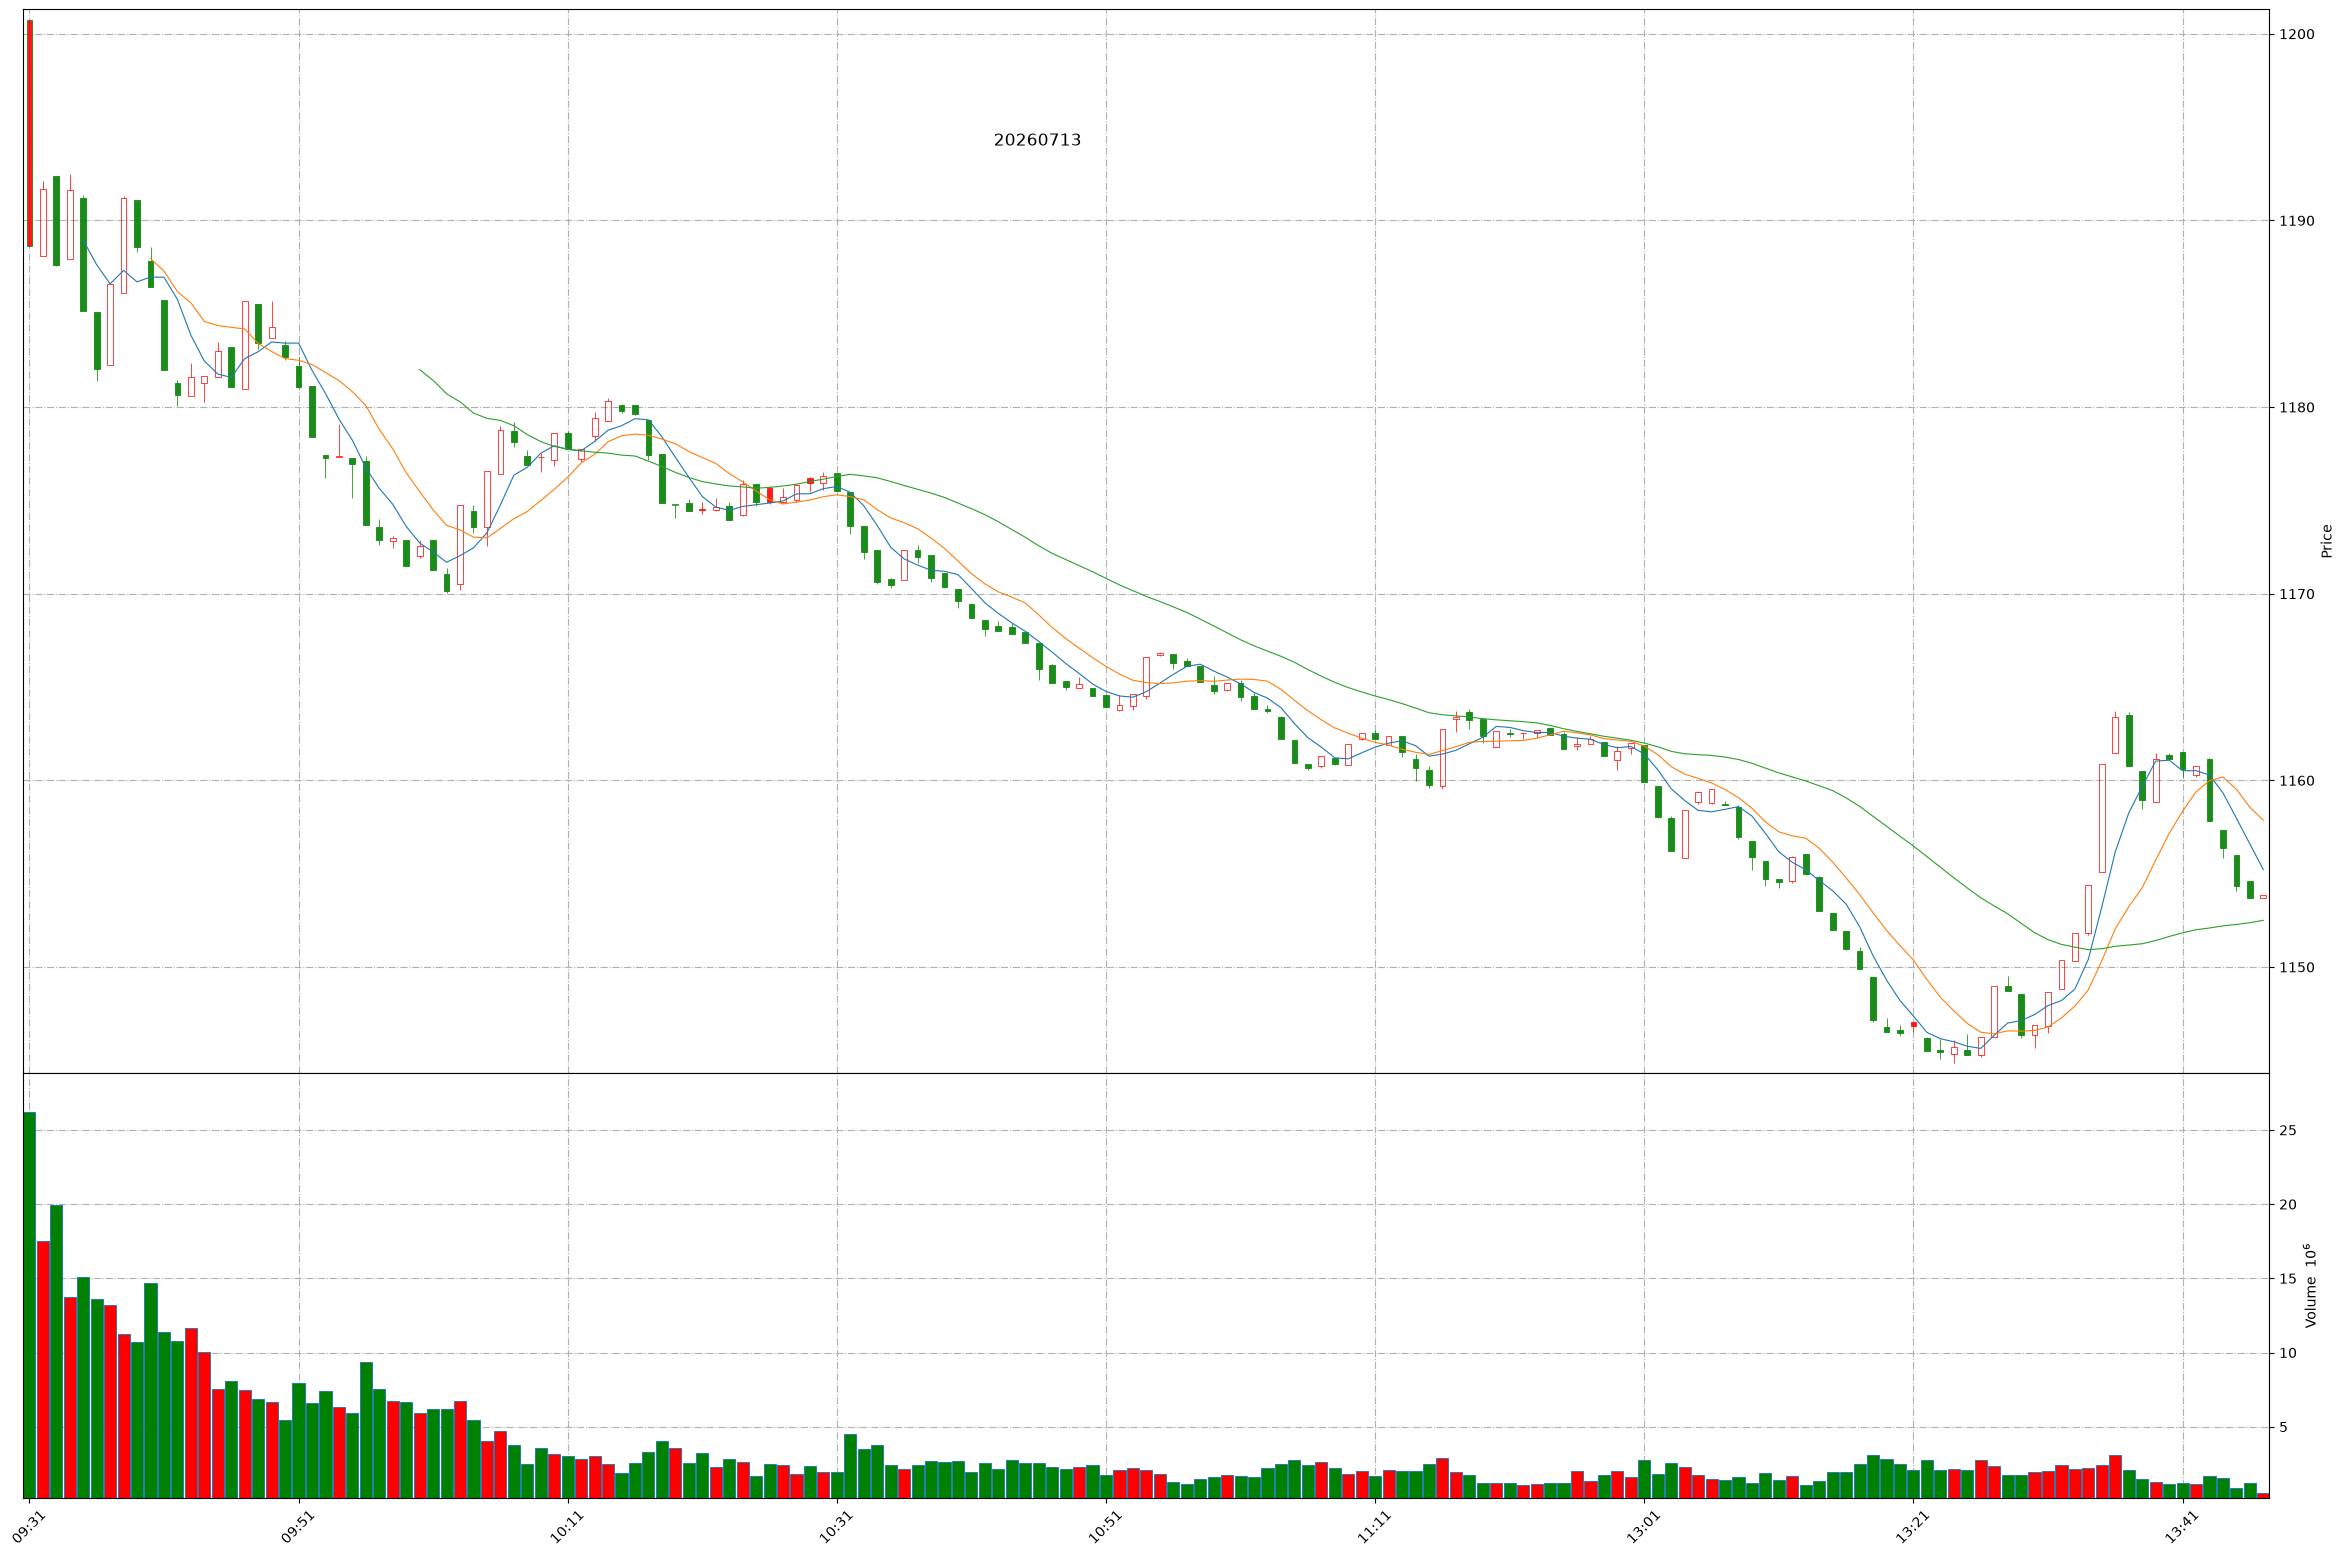
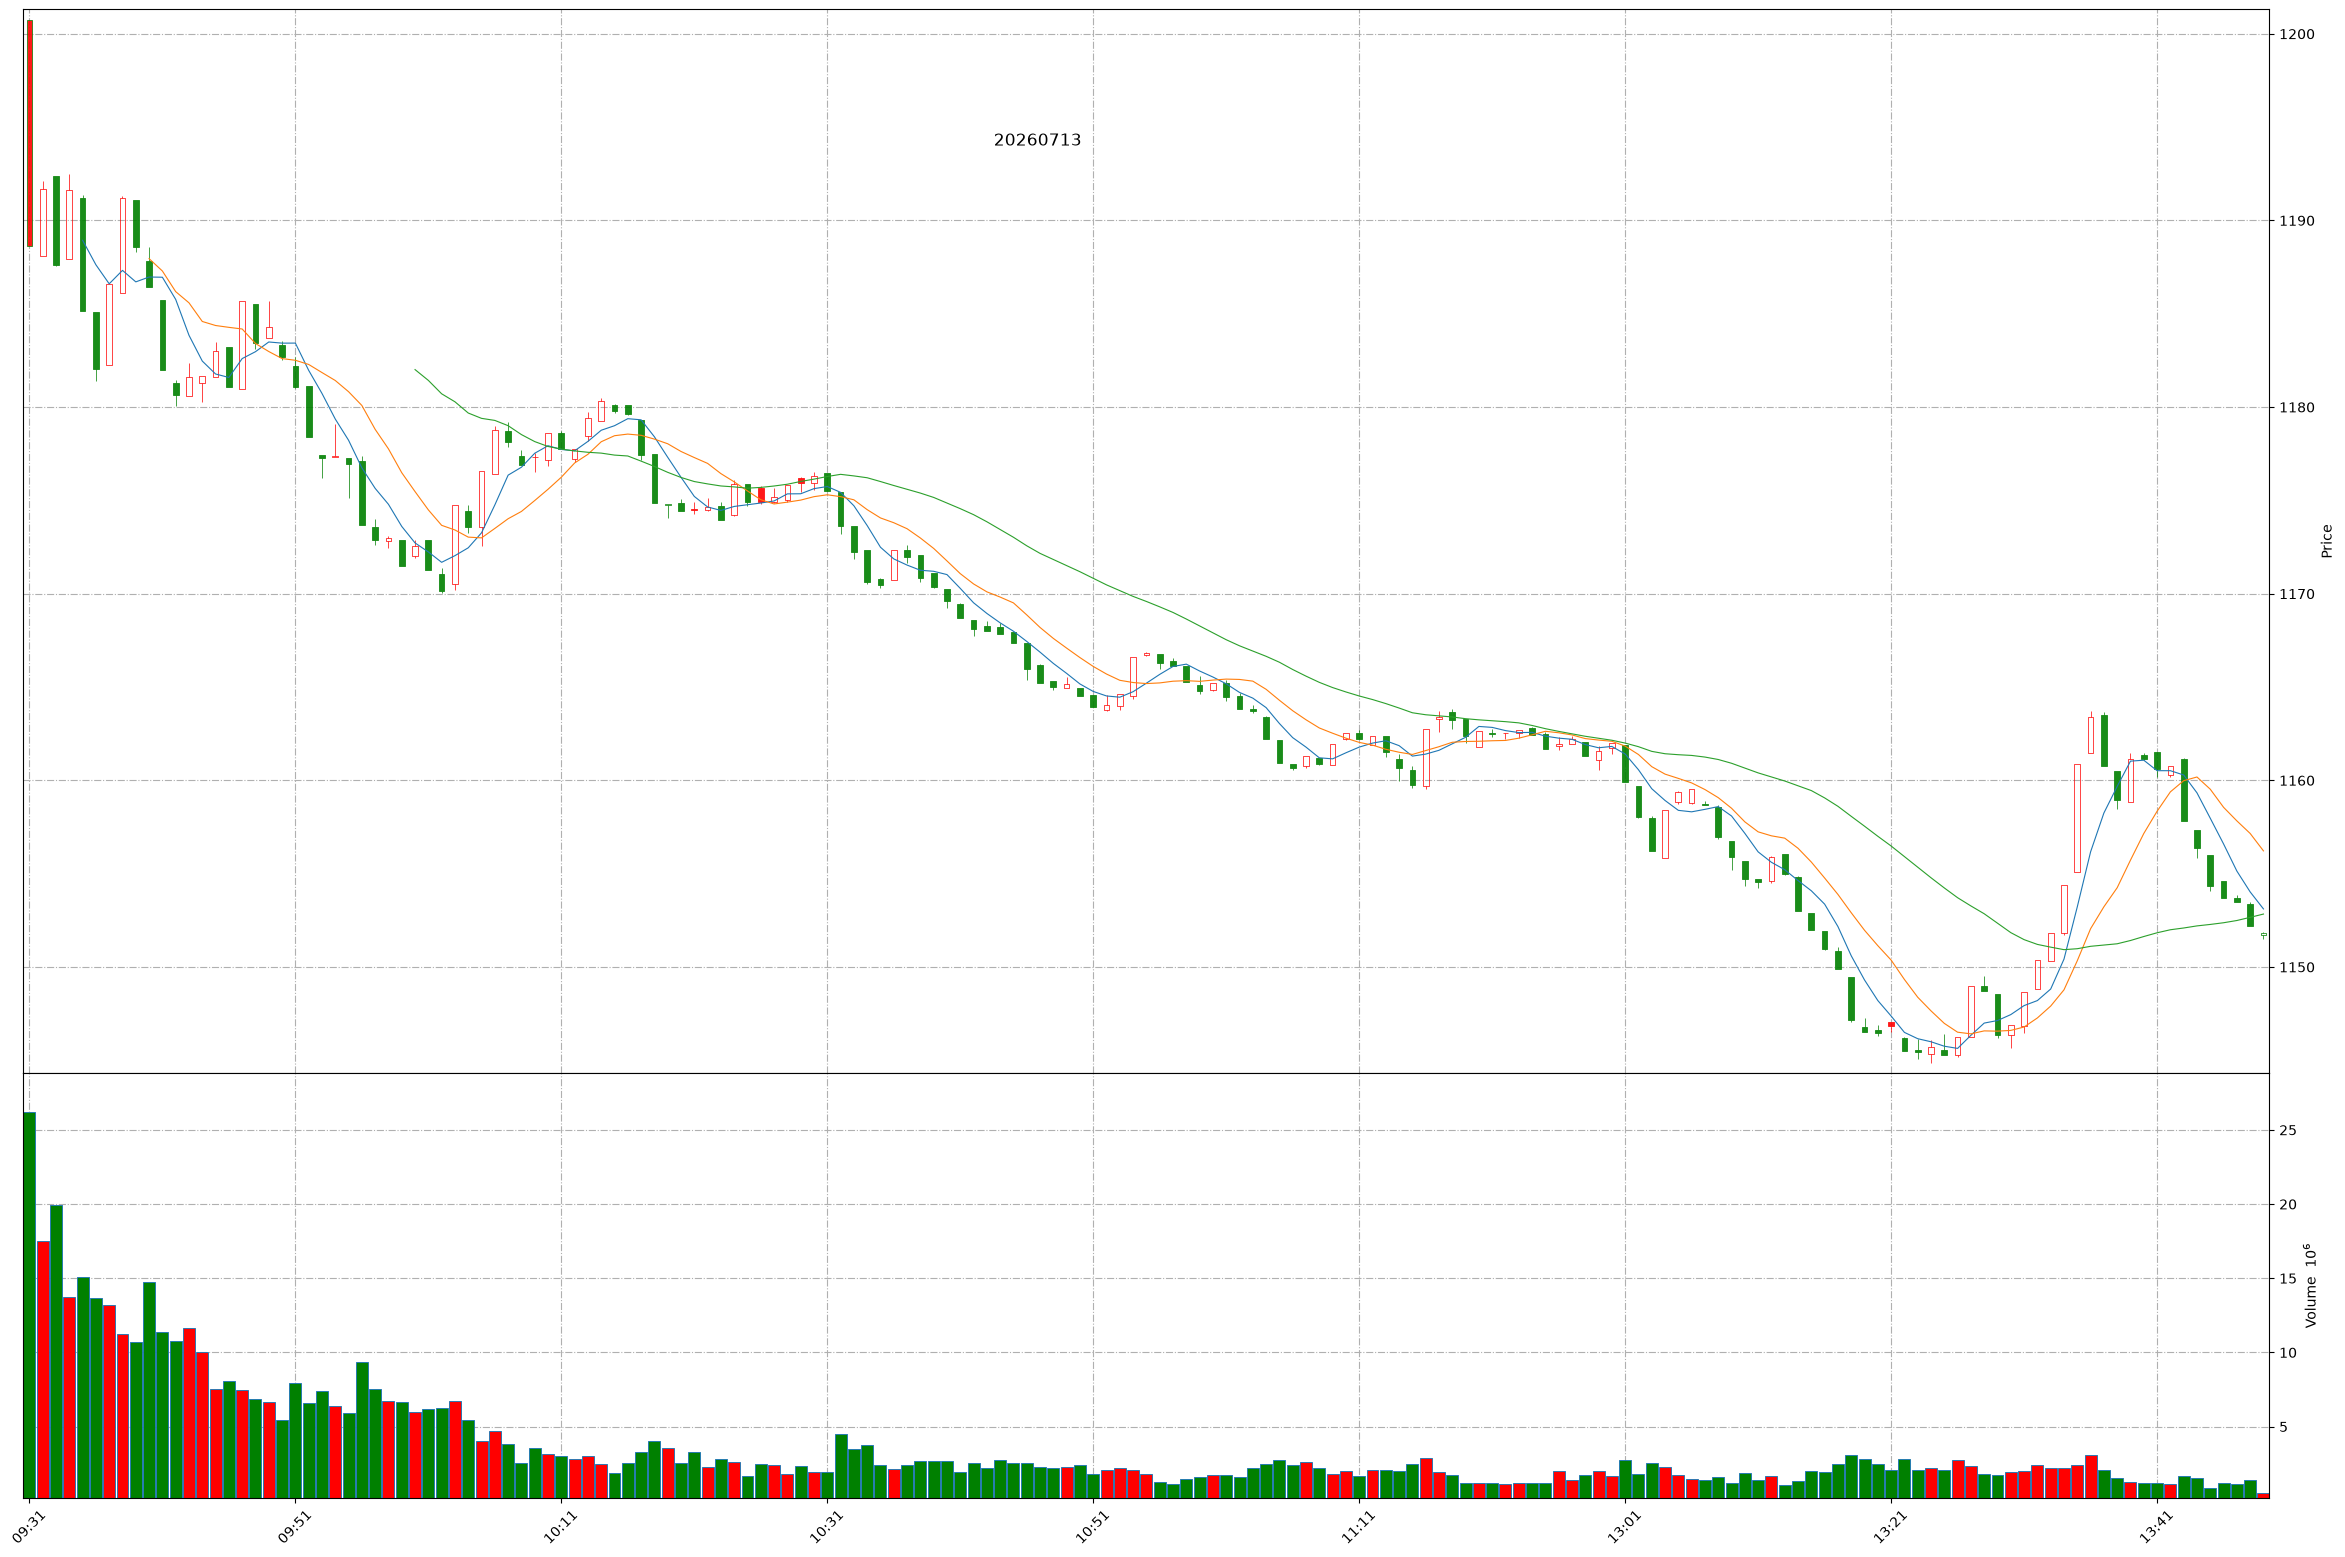
Github action update at 2026-07-13 13:48:28.

diff --git a/README.md b/README.md
@@ -1,11 +1,11 @@
 
 # Daily-A-share-market-quotes 每日 A 股指数（5min 更新）- 20260713
 
-### 上证指数 20260713 13:46
+### 上证指数 20260713 13:48
 ![](./fig/2026/7/20260713-sh000001.png)
 
-### 深证成指 20260713 13:46
+### 深证成指 20260713 13:48
 ![](./fig/2026/7/20260713-sz399001.png)
 
-### 北证50 20260713 13:46
+### 北证50 20260713 13:48
 ![](./fig/2026/7/20260713-bj899050.png)
